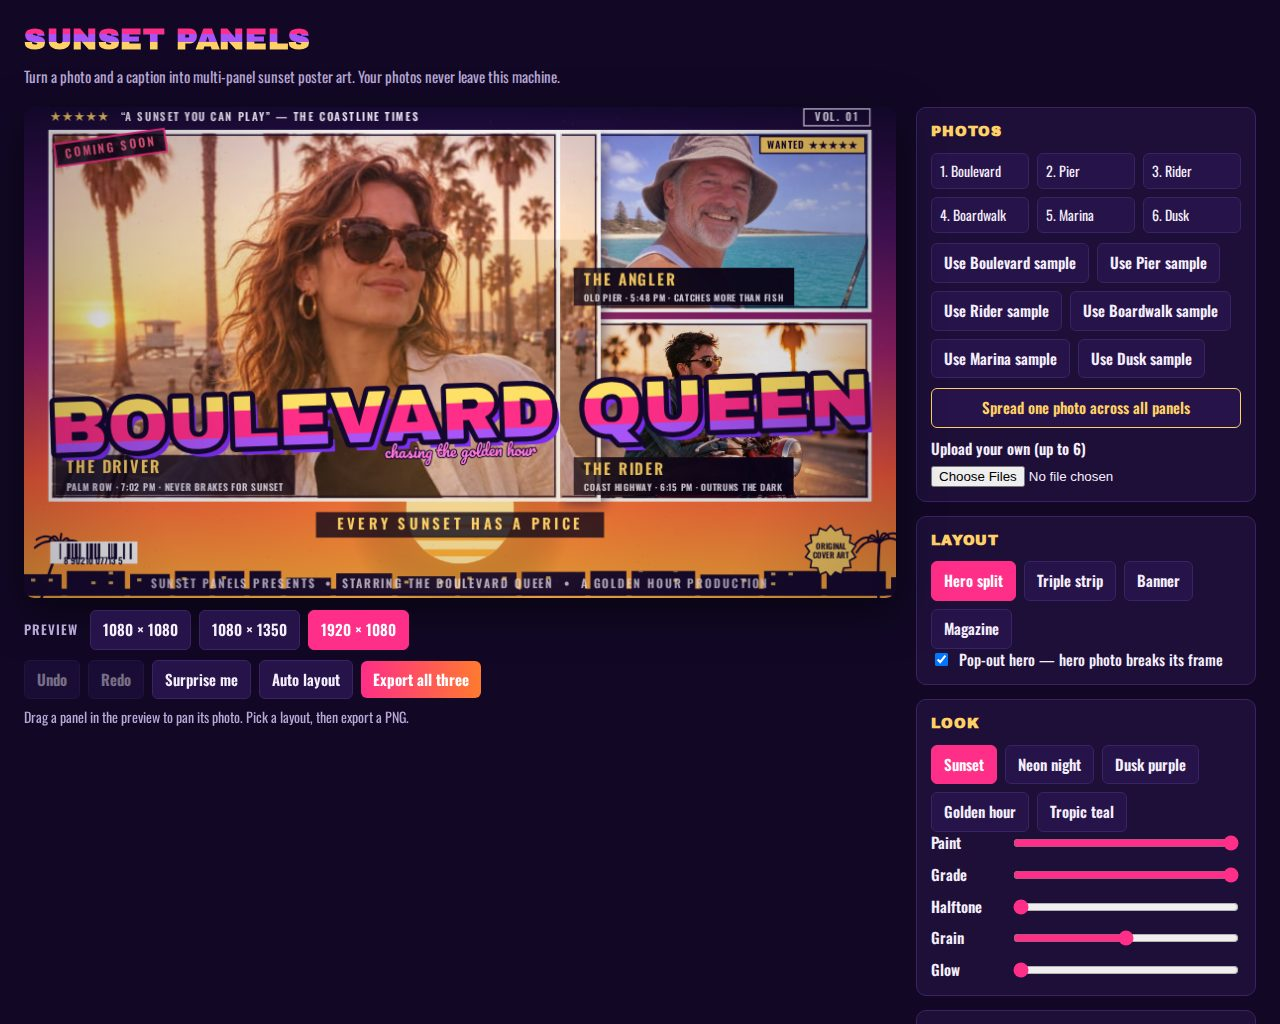
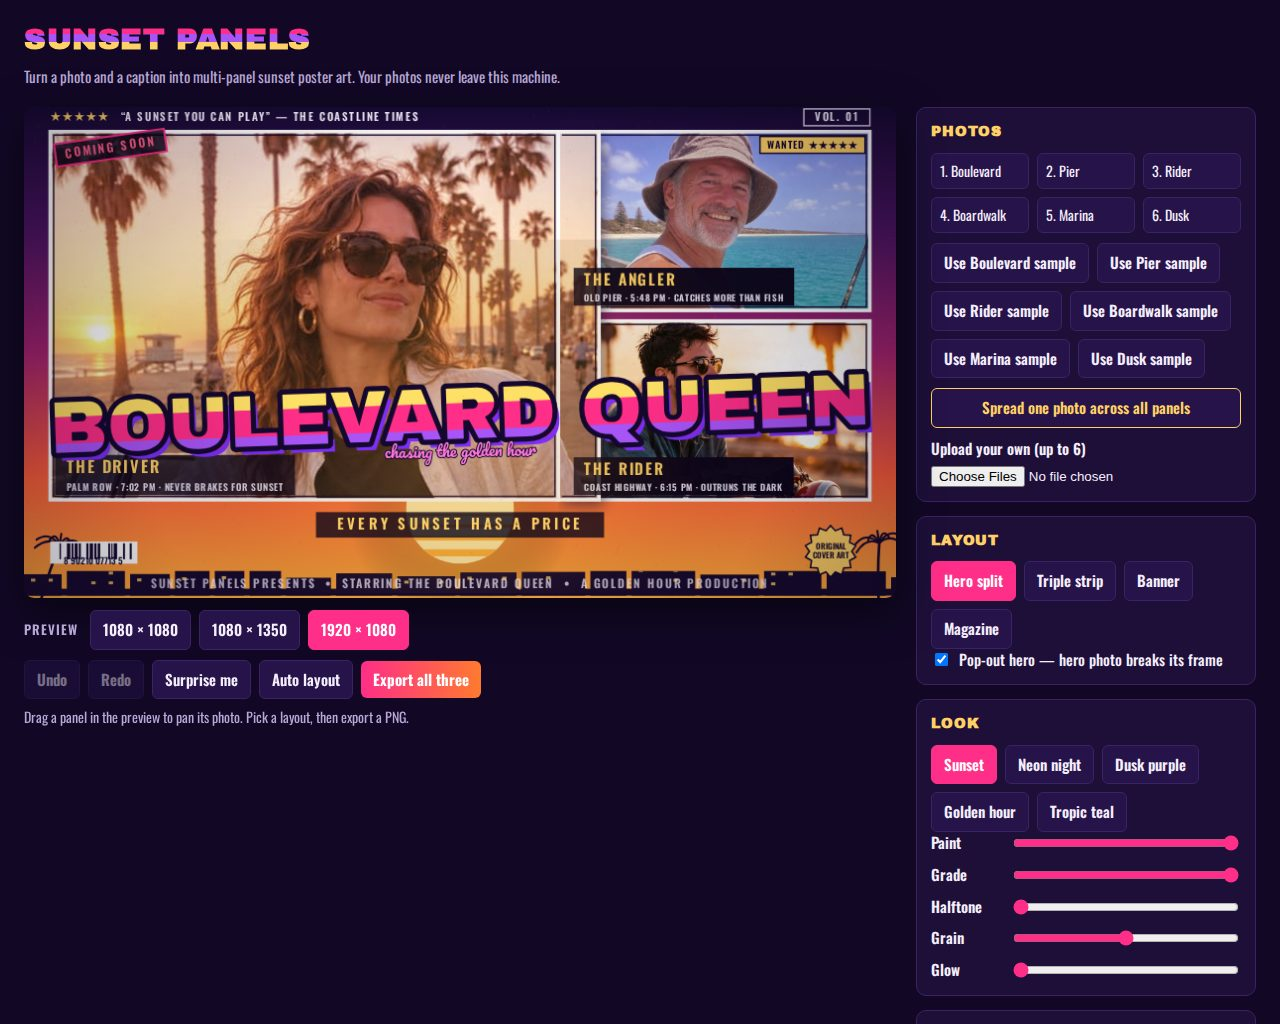
Standardise the 6 samples to one square (1:1) aspect ratio, face-centred; update PHOTO_FACE; re-take screenshots
* Replace 6 sample photos with square face-centred crops (1 of 3)

* Update editor.js with new face centres (2 of 3)

* Re-take 4 screenshots (3 of 3)

diff --git a/app/src/editor.js b/app/src/editor.js
@@ -30,15 +30,17 @@ const PHOTO_TAGS = {
 };
 // Per-sample face centres (fractions of the photo), measured from the
 // samples themselves: the face is what the panels must frame. All six
-// samples carry the face in the upper part of the photo, centred
-// horizontally except the pier (face left) and the rider (face right).
+// samples are square (1:1) since the standardisation, cropped face-centred
+// from their originals, so they behave identically in every panel.
+// Faces sit in the upper part of the photo, centred horizontally except
+// the pier (face left).
 const PHOTO_FACE = {
-  boulevard: { cx: 0.45, cy: 0.27, top: 0.08, bottom: 0.42 },
+  boulevard: { cx: 0.45, cy: 0.36, top: 0.11, bottom: 0.56 },
   pier: { cx: 0.35, cy: 0.20, top: 0.05, bottom: 0.32 },
-  rider: { cx: 0.56, cy: 0.22, top: 0.10, bottom: 0.33 },
-  boardwalk: { cx: 0.42, cy: 0.30, top: 0.13, bottom: 0.35 },
-  marina: { cx: 0.50, cy: 0.31, top: 0.14, bottom: 0.44 },
-  dusk: { cx: 0.50, cy: 0.28, top: 0.17, bottom: 0.38 },
+  rider: { cx: 0.50, cy: 0.22, top: 0.10, bottom: 0.33 },
+  boardwalk: { cx: 0.42, cy: 0.45, top: 0.20, bottom: 0.53 },
+  marina: { cx: 0.50, cy: 0.47, top: 0.21, bottom: 0.66 },
+  dusk: { cx: 0.50, cy: 0.50, top: 0.28, bottom: 0.70 },
 };
 // Per-sample framing defaults for the fixed shot scenes: zoom and pan
 // starting points (autoFramePanels then re-solves the pan from PHOTO_FACE).
